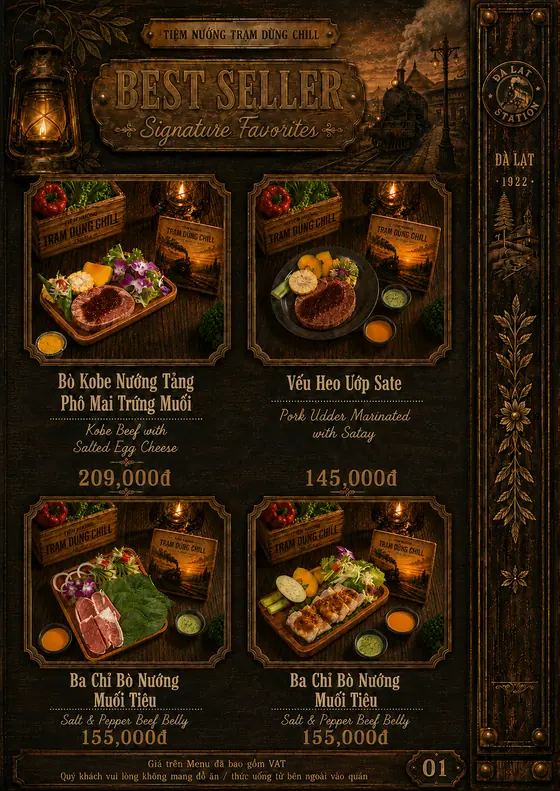
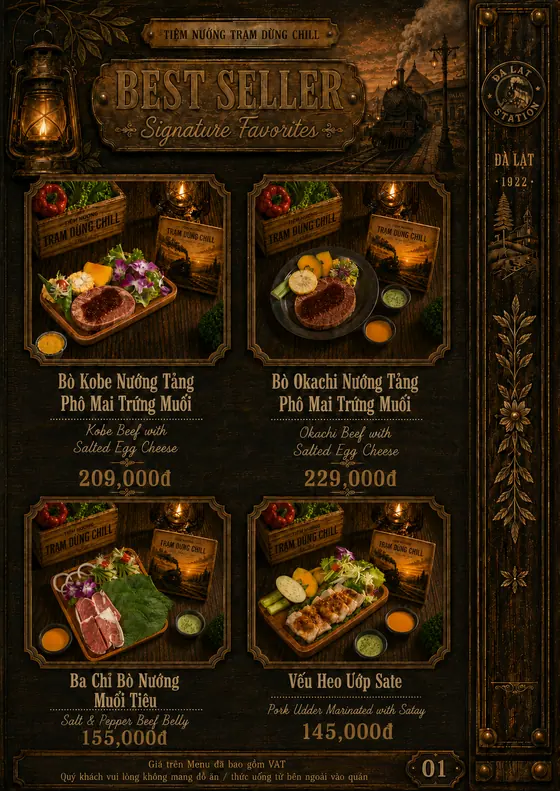
feat(menu): trang best seller cuoi cung — du 4 mon, khop ban in
Ban 18:39 co du bon o dung nhu ban in:
  Bo Kobe 209K · Bo Okachi 229K · Ba Chi Bo Nuong Muoi Tieu 155K · Veu Heo Uop Sate 145K

Het lap "Ba Chi Bo Nuong Muoi Tieu" o o thu tu, va het thieu mon. Anh mon deu
mang dung chu "TRAM DUNG CHILL" tren thung go — khong con dinh nham "Chill Xom
Leo" nhu anh Okachi roi hom truoc.

Trang best seller gio khop 1:1 voi menu-data.js va JSON-LD: bon mon nay deu co
trong du lieu, khong con canh anh khai mot dang con du lieu khai mot dang.

seo-geo-verify: 32/32 PASS · check-facts: SACH

diff --git a/menu.html b/menu.html
@@ -1199,8 +1199,8 @@
                     <figcaption class="flip-page-caption">Trang 1/26 — Bìa</figcaption>
                 </figure>
                 <figure class="flip-page" data-page="2" data-group="bestseller" data-group-label="Best Seller" data-group-i18n="flip.group.bestseller">
-                    <img src="assets/menu-pages/menu-quan-nuong-da-lat-02-best-seller-bo-kobe-pho-mai-trung-muoi-1000.webp?v=8878afb1"
-                         srcset="assets/menu-pages/menu-quan-nuong-da-lat-02-best-seller-bo-kobe-pho-mai-trung-muoi-560.webp?v=0e93d63f 560w, assets/menu-pages/menu-quan-nuong-da-lat-02-best-seller-bo-kobe-pho-mai-trung-muoi-1000.webp?v=8878afb1 1000w"
+                    <img src="assets/menu-pages/menu-quan-nuong-da-lat-02-best-seller-bo-kobe-pho-mai-trung-muoi-1000.webp?v=12da854a"
+                         srcset="assets/menu-pages/menu-quan-nuong-da-lat-02-best-seller-bo-kobe-pho-mai-trung-muoi-560.webp?v=274fefba 560w, assets/menu-pages/menu-quan-nuong-da-lat-02-best-seller-bo-kobe-pho-mai-trung-muoi-1000.webp?v=12da854a 1000w"
                          sizes="(min-width: 900px) 46vw, 92vw"
                          width="1055" height="1491"
                          alt="Trang best seller menu quán nướng Đà Lạt: bò Kobe nướng tảng phô mai trứng muối, bò Okachi nướng tảng, ba chỉ bò nướng muối tiêu, vếu heo ướp sate"
